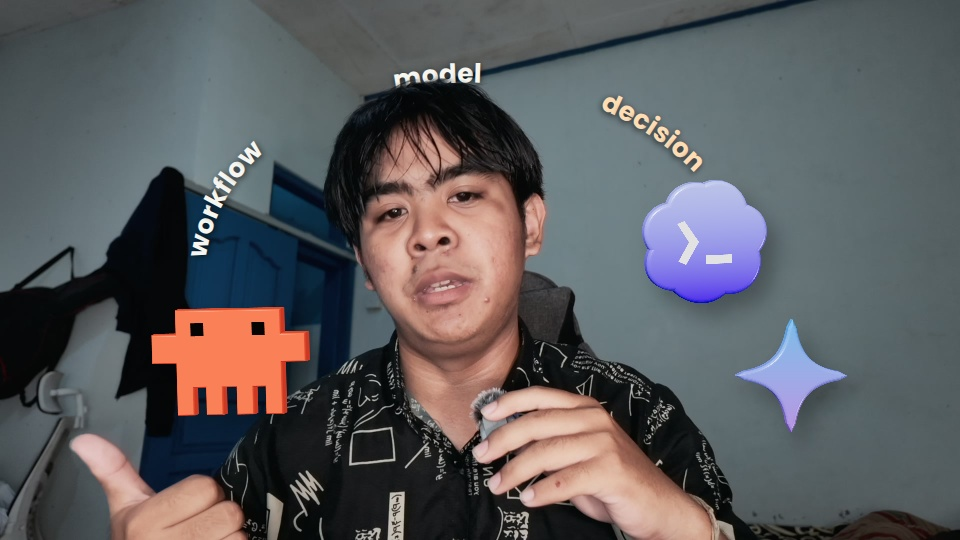
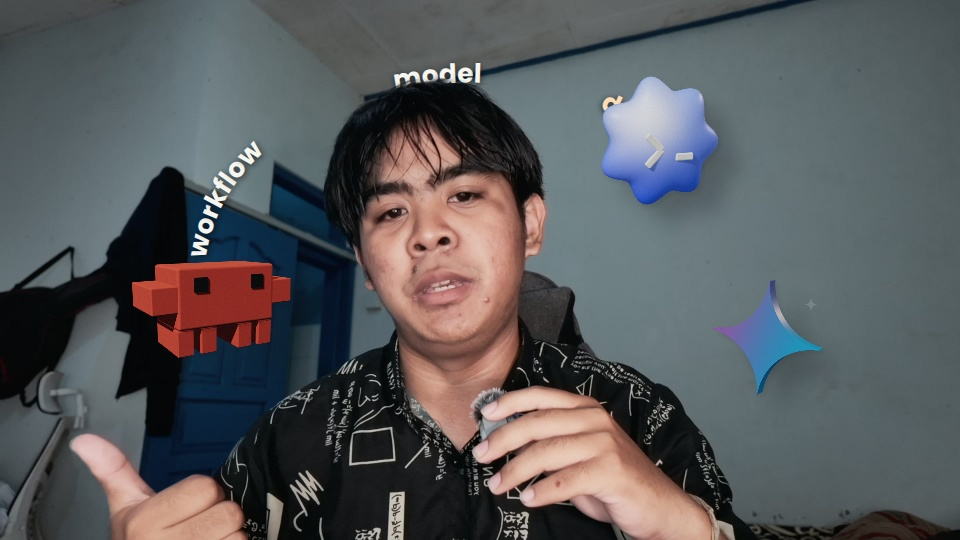
chore(skill-dev-journey): Henti 1 — storyboard final 8 panel + ringkasan
Agent: Claude

Changed region(s): [[0.625, 0.1481, 0.875, 0.8], [0.125, 0.4741, 0.3438, 0.7704]]

diff --git a/projects/skill-development-journey-20261116/handoff/REPORT-K12-r2.md b/projects/skill-development-journey-20261116/handoff/REPORT-K12-r2.md
@@ -1,0 +1,27 @@
+TASK-K12-r3 · Codex · 16 Nov 2026 · nama REPORT r2 mengikuti TASK.
+- Diubah: `remotion/src/komponen/MaskotAI.tsx`, `maskot/{geometry,material,motion}.ts`; uji memakai `UjiMaskot.tsx` dan entry mandiri `K12-entry.tsx` yang sudah ada.
+- T0/T2: Claude 1 blok badan + lengan/kaki terpisah, bevel 5%, doff; coral #F15B45 dari median acuan. ChatGPT bunga biru inflated + >_ putih timbul; Gemini bintang empat sudut biru→ungu, seluruhnya geometri.
+- T1: perspektif FOV 35°, yaw dasar Claude/ChatGPT/Gemini 24°/27°/29°, idle ±6°, pitch kecil; kamera dinaikkan 4 unit untuk memperlihatkan atas Claude.
+- Posisi pusat (422,594)/(1320,302)/(1536,713), kedalaman .06/.78/.38; tinggi proyeksi f090 = 175,7/126,7/137,1 px (Claude/ChatGPT/Gemini).
+- T3: key kiri-depan, rim kanan hangat; bayangan siluet kanan-bawah opacity .20–.25, blur 26–38 px; cavity tipis Claude + shading permukaan inflated, blur kedalaman .59/.54/.30 px.
+- T4: bob, drift x ±6 px, yaw masuk 70°→idle memakai land, menoleh lewat menolehFrame absolut; squash/stretch bunga saat masuk, sapuan cahaya setiap 2,6 dtk, bintang roll pelan + kilau.
+- PASS `tsc --noEmit -p remotion/tsconfig.json`; grep raster seluruh src/komponen = 0 baris; satu raster uji = footage public/uji. Log: `qc/maskot/r3-tsc.log`, `r3-raster-all.log`.
+- Still: `qc/maskot/r2-f020.jpg`, `r2-f090.jpg` (3 maskot), `r2-f170.jpg`; seluruhnya 960×540. Sanding: `r2-sanding.jpg`.
+- Idle 6 frame f060/072/084/096/108/120: `qc/maskot/r2-idle-6frame.jpg`; crop native tanpa resize: `r2-crop100-{claude,chatgpt,gemini}.jpg`; sumber `r2-native-f090.jpg`.
+- PASS pemeriksaan siluet 210 frame: wajah x35–62%/y10–60% bebas, jarak horizontal minimum 68 px; scrub mundur dan fps 24/30/60 lulus (`r3-check.json`; amplop rotasi kaki berupa pendekatan).
+- Render GL angle: 0 error browser; f090 diulang identik byte. Bukti/hash/sumber: `r3-render-results.json`, `r3-artifacts.json`, `r3-source-sha256.json`.
+- Batas: latar uji still, belum tracking footage bergerak; bayangan dinding berupa drop-shadow, bukan mesh kamar. Keputusan rasa/G2 diserahkan ke Sutradara.
+- Root.tsx/index.ts utuh (hash awal/akhir cocok); tanpa video, paket baru, commit/push, atau penulisan di luar FILE BOLEH.
+- API diperiksa: [ThreeCanvas](https://www.remotion.dev/docs/three-canvas), [BufferGeometry](https://threejs.org/docs/pages/BufferGeometry.html).
+
+## Ronde 4
+- T1/T2: ChatGPT #3E6BFF→#8FB2FF + highlight putih lebar prosedural, emissive .22, >_ ditebalkan; Gemini #4285F4→#9B72CB + ujung pink, tebal membulat, emissive .18 dan sweep; bentuk/material Claude tetap.
+- Ukuran f090 Claude/ChatGPT/Gemini = 193/250/229 px; pusat tetap (422,594), kanan kepala (1325,281), kanan bawah (1536,691). Default pembesaran visual: persen brief tidak cocok dengan ukuran r3 pada frame 1920×1080; pertanyaan klarifikasi belum dijawab.
+- T3: bayangan siluet geometri ke dinding, offset ChatGPT/Gemini (44,42) px opacity .28, Claude (60,36) px opacity .30; Gaussian sigma 21–26 px + contact AO (5,7) px, sigma 4, opacity .10; `maskot/shadow.tsx` baru.
+- QA teknis lolos: `r4-tsc.log`, 0 error browser (`r4-render-results.json`), cek 210 frame + scrub/fps dan hash Root/index lulus (`r4-check.json`); jarak minimum maskot ke zona wajah 18,8 px. G2 tetap penilaian Sutradara.
+- Bukti: `qc/maskot/r4-f090.jpg`, `r4-sanding.jpg` (dua panel setinggi 540 px; sumber Gemini 2024 di `r4-artifacts.json`), `r4-crop100-chatgpt.jpg` dari native 1920×1080. Tanpa video, commit/push, atau edit di luar FILE BOLEH.
+
+## Ronde 5
+- Gemini: empat busur path SVG asli diextrude, tebal 11,96%, bevel kecil; gradien radial asli dihitung per fragmen. Tinggi f090 229,13 px; posisi/pose tetap.
+- PASS tsc (`qc/maskot/r5-tsc.log`), 0 error browser, kontur SVG berselisih ≤1 px @1024; ROI Claude/ChatGPT identik piksel r4 (`r5-artifacts.json`).
+- Bukti: `qc/maskot/r5-f090.jpg`, `r5-sanding.jpg` (Gemini kita vs ikon asli sama tinggi 229 px); G2 oleh Sutradara. Tanpa video, commit/push, atau edit di luar FILE BOLEH.

diff --git a/projects/skill-development-journey-20261116/handoff/REPORT-papan.md b/projects/skill-development-journey-20261116/handoff/REPORT-papan.md
@@ -12,3 +12,15 @@
 - Belum setara/teruji: pantulan/contact shadow tokoh B1b belum menyatu dengan kamar; slab belum memiliki material neon 83-k3; kedalaman set voxel 37 tidak direplikasi; gerak/sinkron belum diperiksa lewat video.
 - B1 repo tidak dipilih agar tujuh panel mencakup B1b dan dua mode B3. Narasi dari ucapan; isi UI dari tabel skill/log K13 asli. Peta panel: `handoff/henti1/panel-map.json`.
 - Entry: `remotion/src/uji/papan-entry.tsx`; bangun ulang still: `cd remotion && node src/papan/render-papan.mjs`, sanding: `python3 src/papan/sanding.py`. Tanpa video, commit/push, atau verdict mutu dari builder; menunggu Sutradara.
+
+## Ronde 2
+- T1 B5: chat putih fun, teks 44 px, empat bubble sesuai TASK, avatar dari file asli; f83 mengetik `•••`, f120 catatan sistem + loop + reaksi ✓; `handoff/henti1/papan-B5{,-typing}.jpg`.
+- T2 B3-C: hanya judul `workflow` dipusatkan di atas; ukuran 169 px tetap; `handoff/henti1/papan-B3-C.jpg`.
+- T3 B4-effort: footage sumber 109,0 dtk, kartu gelap di kiri wajah, Faster/Smarter + pegangan otak + jejak pixel ungu-pink + Max; `handoff/henti1/papan-B4-effort.jpg`.
+- Bukti: `handoff/henti1/sanding-r2.jpg` tiga baris kita kiri/acuan kanan (Effort: detail Max baris 2 kolom 2); 4 still 960×540, sanding 960×966; tsc exit 0; cek di `checks-{images,source}-r2.json` dan `QA-r2.md`.
+- B1b/B2/B3-A/B4/B6: hash JPEG sama; 14 definisi kode + kit tetap; tanpa video/commit/push. Render: `cd remotion && node src/papan/render-r2.mjs`; sanding/cek: `python3 src/papan/sanding-r2.py && node src/papan/verify-r2.mjs`. Putusan G2 menunggu Sutradara; token sesi tidak tersedia.
+
+## Ronde 3
+- T1 B5: avatar Codex SVG biru #3E6BFF→#8FB2FF, kilatan kiri atas dan `>_` putih tanpa badge; Claude tetap crab vektor; `papan-B5{,-typing}.jpg` diperbarui.
+- T2 B1b: import MaskotAI final tanpa mengubah komponennya; posisi/ukuran/depth r5, f84 memakai fase umur 90 dan lihatKe kamera: yaw 22,55°, depan 92,2%; cincin/matte tetap. CATATAN untuk Sutradara: bunga pada posisi r5 menutup sebagian kata `decision`.
+- Bukti: tsc exit 0; `checks-source-r3.json` (59 file terlindungi + 6 panel lain identik, raster runtime hanya footage/matte); `storyboard-final.jpg` 960×1176, 8 panel urut TASK, 2 kolom tanpa acuan. Ulang: `node src/papan/render-r3.mjs && node src/papan/verify-r3.mjs && python3 src/papan/storyboard-final.py` dari remotion; tanpa video/commit/push; G2 menunggu Sutradara; token sesi tidak tersedia.

diff --git a/projects/skill-development-journey-20261116/handoff/TASK-papan-r3.md b/projects/skill-development-journey-20261116/handoff/TASK-papan-r3.md
@@ -1,0 +1,11 @@
+AWAL SESI: Sutradara sudah menjalankan doctor --fix (izin Irfan 16 Nov). Bila doctor GAGAL HANYA karena "skill Codex … salinan", jalankan ./tools/doctor.sh --fix sekali lalu lanjut; jangan bertanya.
+
+# TASK-papan-r3 · Codex (Sol 6.1 High) · pemberi: Sutradara claude2
+G2 sanding-r2: B3-C dan B4-effort LULUS. Dua perbaikan terakhir sebelum storyboard ditunjukkan ke Irfan.
+TEMUAN       T1 B5: avatar Codex memakai raster screenshot berbadge merah "12" (melanggar tanpa-raster; badge tidak relevan). Ganti dengan bunga Codex VEKTOR/3D dari komponen maskot (remotion/src/komponen/MaskotAI.tsx model "chatgpt", atau versi 2D vektor setara: awan biru #3E6BFF→#8FB2FF, kilatan putih kiri atas, ">_" putih), tanpa badge. Avatar Claude tetap crab.
+             T2 B1b: render ulang memakai maskot 3D final dari MaskotAI.tsx (versi ronde 5: ChatGPT bunga cerah, Claude crab, Gemini bintang cekung) dengan posisi/ukuran/bayangan seperti qc/maskot/r5-f090.jpg; cincin kata dan matte tetap. Pastikan simbol ">_" pada bunga ChatGPT terbaca jelas (menghadap kamera ≥ 70 %, yaw ≤ 25°) di still B1b; atur lewat props pose/fase bila ada, bukan dengan mengubah MaskotAI.
+FILE BOLEH   remotion/src/papan/**, remotion/public/papan/**, remotion/src/uji/papan-entry.tsx, handoff/henti1/**, handoff/REPORT-papan.md
+FILE JANGAN  semua lainnya (MaskotAI hanya di-import, tidak diubah).
+LULUS BILA   tsc lulus; papan-B5.jpg dan papan-B1b.jpg diperbarui; grep raster di src/papan hanya footage/matte; handoff/henti1/storyboard-final.jpg: 8 panel urut B1b, B2, B3-A, B3-C, B4, B4-effort, B5, B6 (grid 2 kolom, lebar 960, label babak kecil) — tanpa kolom acuan.
+JANGAN       render video, commit/push.
+LAPORAN      bagian "Ronde 3" ≤ 4 baris di REPORT-papan.md.

diff --git a/projects/skill-development-journey-20261116/handoff/TASK-K12-r5.md b/projects/skill-development-journey-20261116/handoff/TASK-K12-r5.md
@@ -1,0 +1,10 @@
+AWAL SESI: Sutradara sudah menjalankan doctor --fix (izin Irfan 16 Nov). Bila doctor GAGAL HANYA karena "skill Codex … salinan", jalankan ./tools/doctor.sh --fix sekali lalu lanjut; jangan bertanya.
+
+# TASK-K12-r5 · Codex (Sol 6.1 High) · pemberi: Sutradara claude2 · HANYA Gemini
+G2 qc/maskot/r4-sanding.jpg: Claude LULUS, ChatGPT LULUS (jangan disentuh). Gemini GAGAL bentuk: sekarang belah ketupat menggembung; logo asli (qc/maskot/r4-ref-gemini-2024.svg) = bintang empat sudut RAMPING dengan keempat sisi melengkung ke DALAM (cekung), ujung runcing panjang, pinggang sempit (lebar pinggang ±18–22 % lebar total).
+TEMUAN       T1 Bangun ulang geometri Gemini dari path SVG asli itu (extrude 3D, ketebalan ±12 % lebar, bevel kecil membulat), gradien asli dipertahankan. Ukuran visual sama (±229 px tinggi di f090), posisi sama.
+FILE BOLEH   remotion/src/komponen/maskot/** (bagian Gemini), remotion/src/komponen/MaskotAI.tsx bila perlu, qc/maskot/**, handoff/REPORT-K12-r2.md
+FILE JANGAN  semua lainnya.
+LULUS BILA   tsc lulus; qc/maskot/r5-f090.jpg + r5-sanding.jpg (kita vs ikon Gemini asli setinggi sama).
+JANGAN       render video, commit/push.
+LAPORAN      bagian "Ronde 5" ≤ 4 baris di REPORT-K12-r2.md.

diff --git a/projects/skill-development-journey-20261116/handoff/henti1/RINGKASAN.md b/projects/skill-development-journey-20261116/handoff/henti1/RINGKASAN.md
@@ -1,0 +1,9 @@
+# Henti 1 · ringkasan Sutradara (16 Nov malam)
+Storyboard: `storyboard-final.jpg` (8 panel di atas footage asli). Sanding vs kiblat: `sanding.jpg`, `sanding-r2.jpg`.
+1. Kiblat: 83 Barsol (teks di sekitar kepala: cincin, tangga tag, slab di belakang kepala), 07 Baikov (bidang biru + bentuk besar + UI besar), 37 (tokoh pixel). RESEP.md.
+2. Karakter = ikon asli: Claude crab merah, ChatGPT/Codex bunga biru `>_`, Gemini bintang cekung; 3D di kamar (B1b), 2D di chat (B5).
+3. B5 = UI chat putih fun berisi percakapan ASLI kerja video ini (Codex minta izin → Claude menjawab → "dicatat" → loop).
+4. B4 = slab BALIK MODAL + kartu Effort ke Max + kartu paket 20x/5x.
+5. Matte di PC (RVM) karena tidak ada koneksi Mac.
+6. Catatan build: B1b bunga ChatGPT menutup sebagian "decision" + `>_` dipertajam; jejak cahaya Effort dipertegas; B1 (repo GitHub, K-01 lulus) tidak masuk papan tapi sudah jadi.
+7. Potong: kandidat 1:33,6, ronde 2 (gerbang potong) masih berjalan.

diff --git a/projects/skill-development-journey-20261116/STATUS.md b/projects/skill-development-journey-20261116/STATUS.md
@@ -30,3 +30,4 @@ Berikutnya: sesi editing dapat mulai dari MP4 dan paket handoff; Irfan belum mem
 - G2 still: K05 LULUS (r2), K06 LULUS (r3, centang margin ±200 px @1080).
 - G2 still: K07 LULUS (r2), K11 LULUS (r3; hero 132 px x≥115, pil kontras 14:1 terhitung — ukur ulang di still final).
 - G2: K01 LULUS (r2, sanding vs GitHub asli). K12 r3: Claude LULUS, ChatGPT/Gemini revisi r4.
+- G2: K12 LULUS (r5: Gemini bintang cekung). Storyboard r3 berjalan (B5 avatar vektor, B1b maskot final).
